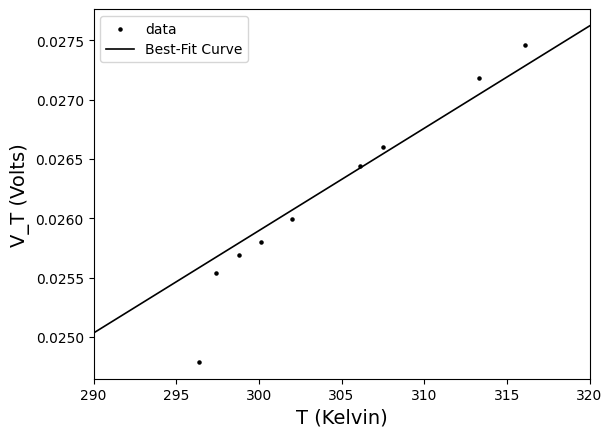
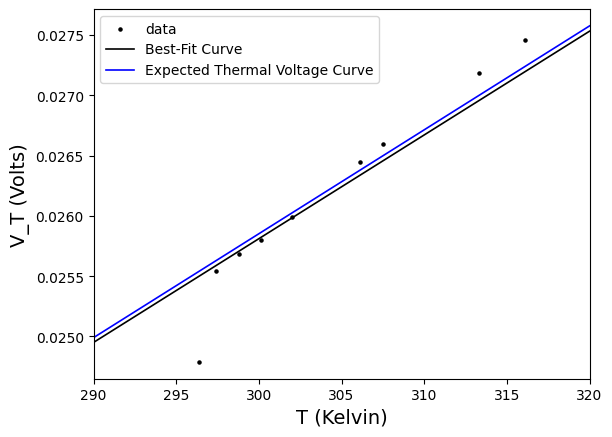
tenative final commit

diff --git a/2_6SiFit.py b/2_6SiFit.py
@@ -152,17 +152,25 @@ def thermVolt(T,k):
 
 Temps = np.array([Vdata[i][1] + 273 for i in range(9)])
 VoltsT = np.array([fitData[i][0][0] for i in range(9)])
-truncTemps = Temps[1:9]
-truncVoltsT = VoltsT[1:9]
-truncTemps = truncTemps[:,np.newaxis]
-a, _, _, _ = np.linalg.lstsq(truncTemps, truncVoltsT)
+Temps = Temps[:,np.newaxis]
+a, _, _, _ = np.linalg.lstsq(Temps, VoltsT)
 print(a)
 print(k/e)
-r = 0
-for i in range(8):
-    r-= (truncVoltsT[i] - truncTemps[i]*a)**2/(truncVoltsT[i]-np.mean(truncVoltsT))**2
-r += 1
-print(r)
+ssR = 0
+SoSqrs = 0
+for i in range(9):
+    ssR += (VoltsT[i] - Temps[i]*a)**2
+    SoSqrs += (VoltsT[i]-np.mean(VoltsT))**2
+print(f"ssR = {ssR}")
+print(f"SoSqrs = {SoSqrs}")
+r = 1-(ssR/SoSqrs)
+print(f"R^2 = {r}")
+s = 0
+for i in range(9):
+    s+= (VoltsT[i] - Temps[i]*a)**2
+
+np.sqrt(s/7)
+print(f"Std dev of resiudals = {s}")
 intervalT = np.linspace(290,320,1000)
 plt.figure()
 plt.xlim(290,320)
@@ -170,6 +178,14 @@ plt.xlabel('T (Kelvin)',fontsize=14)
 plt.ylabel('V_T (Volts)',fontsize=14)
 plt.scatter(Temps,VoltsT,color="black",label="data",s=5)
 plt.plot(intervalT,intervalT*a,color="black",linewidth=1.2,label="Best-Fit Curve")
+plt.plot(intervalT,intervalT*k/e,color="blue",linewidth=1.2,label="Expected Thermal Voltage Curve")
 plt.legend()
 plt.savefig("2_6SiBoltz.png",bbox_inches="tight")
 plt.close()
+"""
+[Outlier Code]
+truncTemps = Temps[1:9]
+truncVoltsT = VoltsT[1:9]
+aNew, _, _, _ = np.linalg.lstsq(truncTemps, truncVoltsT)
+print(aNew)
+"""

diff --git a/2_4SiFit.py b/2_4SiFit.py
@@ -140,3 +140,40 @@ for i in range(size):
     plt.legend()
     plt.savefig(name,bbox_inches='tight')
     plt.close()
+
+'''
+[Thermal Volt vs Temp]
+'''
+def thermVolt(T,k):
+    return k*T/e
+
+Temps = np.array([Vdata[i][1] + 273 for i in range(size)])
+VoltsT = np.array([fitData[i][0][0] for i in range(size)])
+Temps = Temps[:,np.newaxis]
+a, _, _, _ = np.linalg.lstsq(Temps, VoltsT)
+print(a)
+print(k/e)
+ssR = 0
+SoSqrs = 0
+for i in range(size):
+    ssR += (VoltsT[i] - Temps[i]*a)**2
+    SoSqrs += (VoltsT[i]-np.mean(VoltsT))**2
+print(f"ssR = {ssR}")
+print(f"SoSqrs = {SoSqrs}")
+r = 1 - (ssR/SoSqrs)
+print(f"R^2 = {r}")
+s = 0
+for i in range(size):
+    s+= (VoltsT[i] - Temps[i]*a)**2
+np.sqrt(s/7)
+print(f"Std dev of resiudals = {s}")
+intervalT = np.linspace(290,320,1000)
+plt.figure()
+plt.xlim(290,320)
+plt.xlabel('T (Kelvin)',fontsize=14)
+plt.ylabel('V_T (Volts)',fontsize=14)
+plt.scatter(Temps,VoltsT,color="black",label="data",s=5)
+plt.plot(intervalT,intervalT*a,color="black",linewidth=1.2,label="Best-Fit Curve")
+plt.plot(intervalT,intervalT*k/e,color="blue",linewidth=1.2,label="Expected Thermal Voltage Curve")
+plt.legend()
+plt.savefig("2_4SiBoltz.png",bbox_inches="tight")

diff --git a/fit_ge.py b/fit_ge.py
@@ -174,3 +174,41 @@ for i in range(size):
     plt.legend()
     plt.savefig(name,bbox_inches='tight')
     plt.close()
+
+'''
+[Thermal Volt vs Temp]
+'''
+def thermVolt(T,k):
+    return k*T/e
+
+Temps = np.array([Vdata[i][1] + 273 for i in range(size)])
+VoltsT = np.array([fitData[i][0][0] for i in range(size)])
+Temps = Temps[:,np.newaxis]
+a, _, _, _ = np.linalg.lstsq(Temps, VoltsT)
+print(a)
+print(k/e)
+ssR = 0
+SoSqrs = 0
+for i in range(size):
+    ssR += (VoltsT[i] - Temps[i]*a)**2
+    SoSqrs += (VoltsT[i]-np.mean(VoltsT))**2
+print(f"ssR = {ssR}")
+print(f"SoSqrs = {SoSqrs}")
+r = 1-(ssR/SoSqrs)
+print(f"R^2 = {r}")
+s = 0
+for i in range(size):
+    s+= (VoltsT[i] - Temps[i]*a)**2
+
+np.sqrt(s/7)
+print(f"Std dev of resiudals = {s}")
+intervalT = np.linspace(290,320,1000)
+plt.figure()
+plt.xlim(290,320)
+plt.xlabel('T (Kelvin)',fontsize=14)
+plt.ylabel('V_T (Volts)',fontsize=14)
+plt.scatter(Temps,VoltsT,color="black",label="data",s=5)
+plt.plot(intervalT,intervalT*a,color="black",linewidth=1.2,label="Best-Fit Curve")
+plt.plot(intervalT,intervalT*k/e,color="blue",linewidth=1.2,label="Expected Thermal Voltage Curve")
+plt.legend()
+plt.savefig("GeBoltz.png",bbox_inches="tight")
